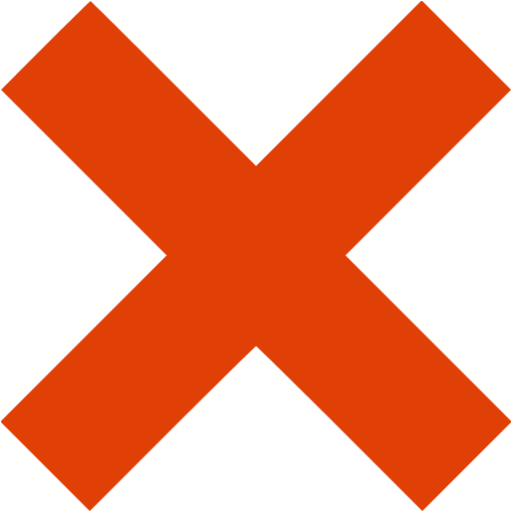
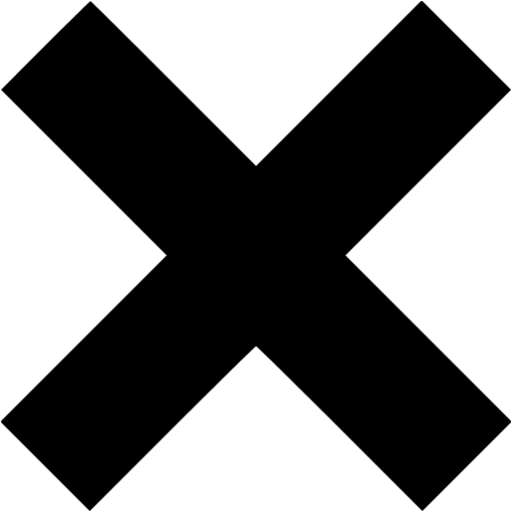
small Changes

diff --git a/scripts.js b/scripts.js
@@ -41,6 +41,7 @@ var markSquare = function(squareClicked){
 		}
 	}else{
 		squareClicked.innerHTML = "O";
+		squareClicked.style.color = "red"
 		whosTurn = 1;
 		player2Squares.push(squareClicked.id);
 		document.getElementById('message').innerHTML = "It's X's turn"
@@ -149,6 +150,16 @@ function myFunction() {
     document.getElementById("B3").classList.remove("winning-square")
     document.getElementById("C3").classList.remove("winning-square")
     ;
+    document.getElementById("A1").style.color = "black";
+    document.getElementById("A2").style.color = "black";
+    document.getElementById("A3").style.color = "black";
+    document.getElementById("B1").style.color = "black";
+    document.getElementById("B2").style.color = "black";
+    document.getElementById("B3").style.color = "black";
+    document.getElementById("C1").style.color = "black";
+    document.getElementById("C2").style.color = "black";
+    document.getElementById("C3").style.color = "black";
+    
 
 
 
